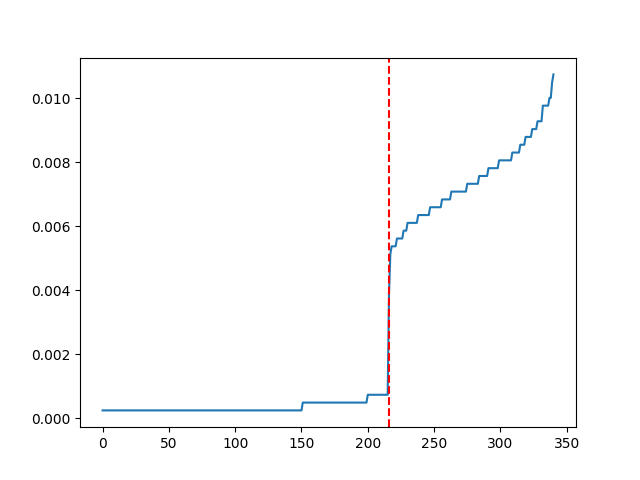
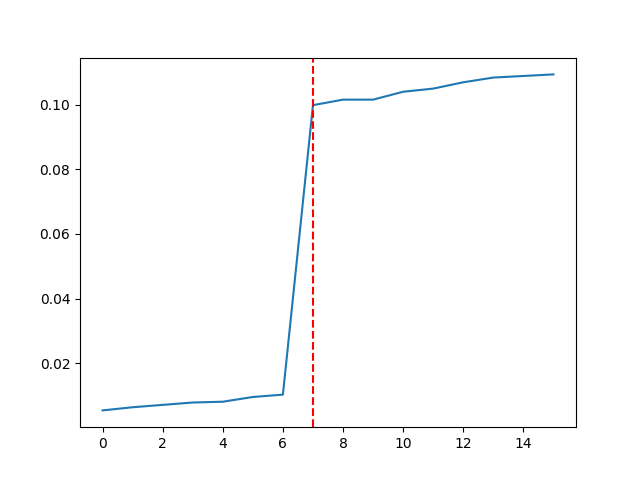
Silhouette

diff --git a/utils.py b/utils.py
@@ -2,6 +2,7 @@ import pandas as pd
 import numpy as np
 from causallearn.graph.Edge import Edge
 from sklearn.cluster import KMeans
+from sklearn.metrics import silhouette_score
 import matplotlib.pyplot as plt
 import os
 import pydot
@@ -50,10 +51,13 @@ def cluster_solutions(count: dict):
     mean_1 = np.mean(list(cluster_1.values()))
     mean_2 = np.mean(list(cluster_2.values()))
     
+    # calculate the Silhouette score using scikit
+    silhouette_avg = silhouette_score(probabilities, kmeans_labels)
+    
     if mean_1 > mean_2:
-        return cluster_1
+        return cluster_1, silhouette_avg
     elif mean_2 > mean_1:  
-        return cluster_2
+        return cluster_2, silhouette_avg
     else:
         raise Exception("Something went really wrong with the clustering of the solutions.... the means are equal")
     

diff --git a/SAT/quantum.py b/SAT/quantum.py
@@ -91,7 +91,7 @@ def solveQuantumSAT(cnf, debug=False):
     
     if debug: print(f"DEBUG: {np.pi/4 * math.sqrt(2**n_variables)} reps")
     
-    reps = math.ceil(np.pi/4 * math.sqrt(2**n_variables)) + 1
+    reps = math.ceil(np.pi/4 * math.sqrt(2**n_variables))
     
     qc = QuantumCircuit(n)
     
@@ -125,7 +125,10 @@ def solveQuantumSAT(cnf, debug=False):
     if debug: print(f"DEBUG: counts={counts}")
     
     if debug: print(f"DEBUG: clustering solutions, {len(counts)}")
-    temp_counts = cluster_solutions(counts)
+    temp_counts, sil = cluster_solutions(counts)
+    
+    print(f"LOG: Silhouette score: {sil}")
+    
     if debug: print(f"DEBUG: clustered solutions, {len(counts)}")
     
     if debug: elbow_plot(counts, temp_counts)

diff --git a/workbench.py b/workbench.py
@@ -1,8 +1,8 @@
 from SAT.quantum import solveQuantumSAT
 from SAT.classical import solveClassicalSAT
 
-new_cnf = [[1, 5, 2], [-1, -5, 2], [-1, -5, -2], [3, 8, 4], [-3, -8, 4], [-3, -8, -4], [6, 9, 7], [-6, -9, 7], [-6, -9, -7]]
-# new_cnf = [[2, 3], [1, 4]]
+# new_cnf = [[1, 5, 2], [-1, -5, 2], [-1, -5, -2], [3, 8, 4], [-3, -8, 4], [-3, -8, -4], [6, 9, 7], [-6, -9, 7], [-6, -9, -7]]
+new_cnf = [[2, 3], [1, 4]]
 
 is_sat, model = solveClassicalSAT(new_cnf)
 

diff --git a/repetitions.py b/repetitions.py
@@ -1,0 +1,18 @@
+import numpy as np
+import math
+import matplotlib.pyplot as plt
+
+# x = np.arange(1, 30, step=1)
+# np.pi/4 * math.sqrt(2**n_variables)
+x = np.arange(10).tolist()
+y = [np.pi/4 * math.sqrt(2**n) for n in range(0, 10)]
+
+y_rounded = [math.ceil(n) for n in y]
+
+plt.scatter(x = x, y = y, label="Floating point")
+plt.scatter(x = x, y = y_rounded, label="Integers")
+plt.legend()
+plt.yticks(y_rounded)
+plt.grid(True)
+plt.show()
+
